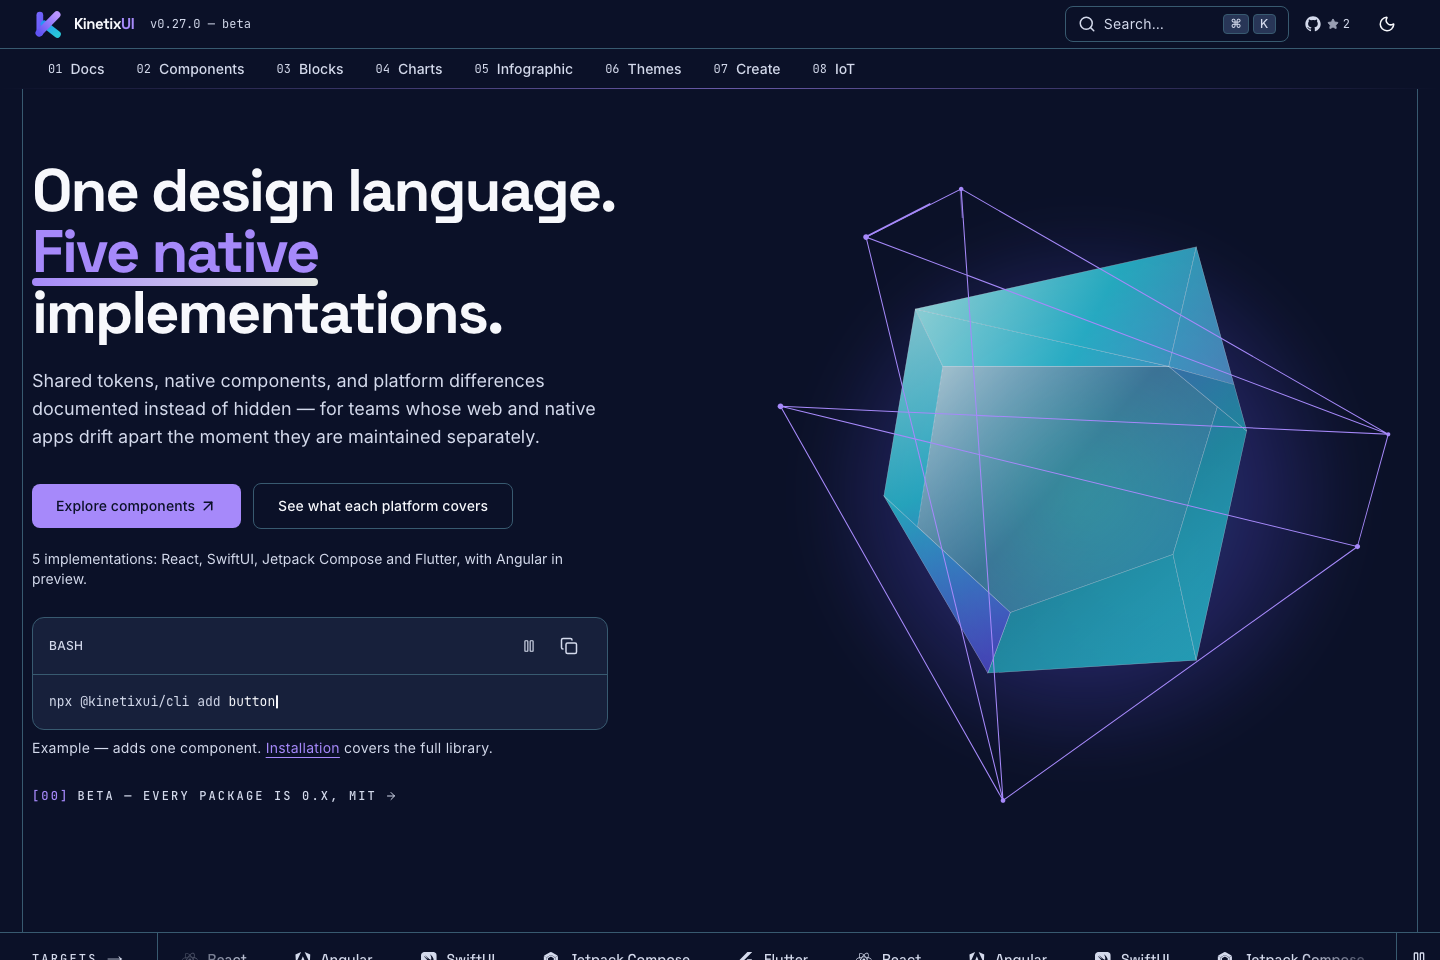
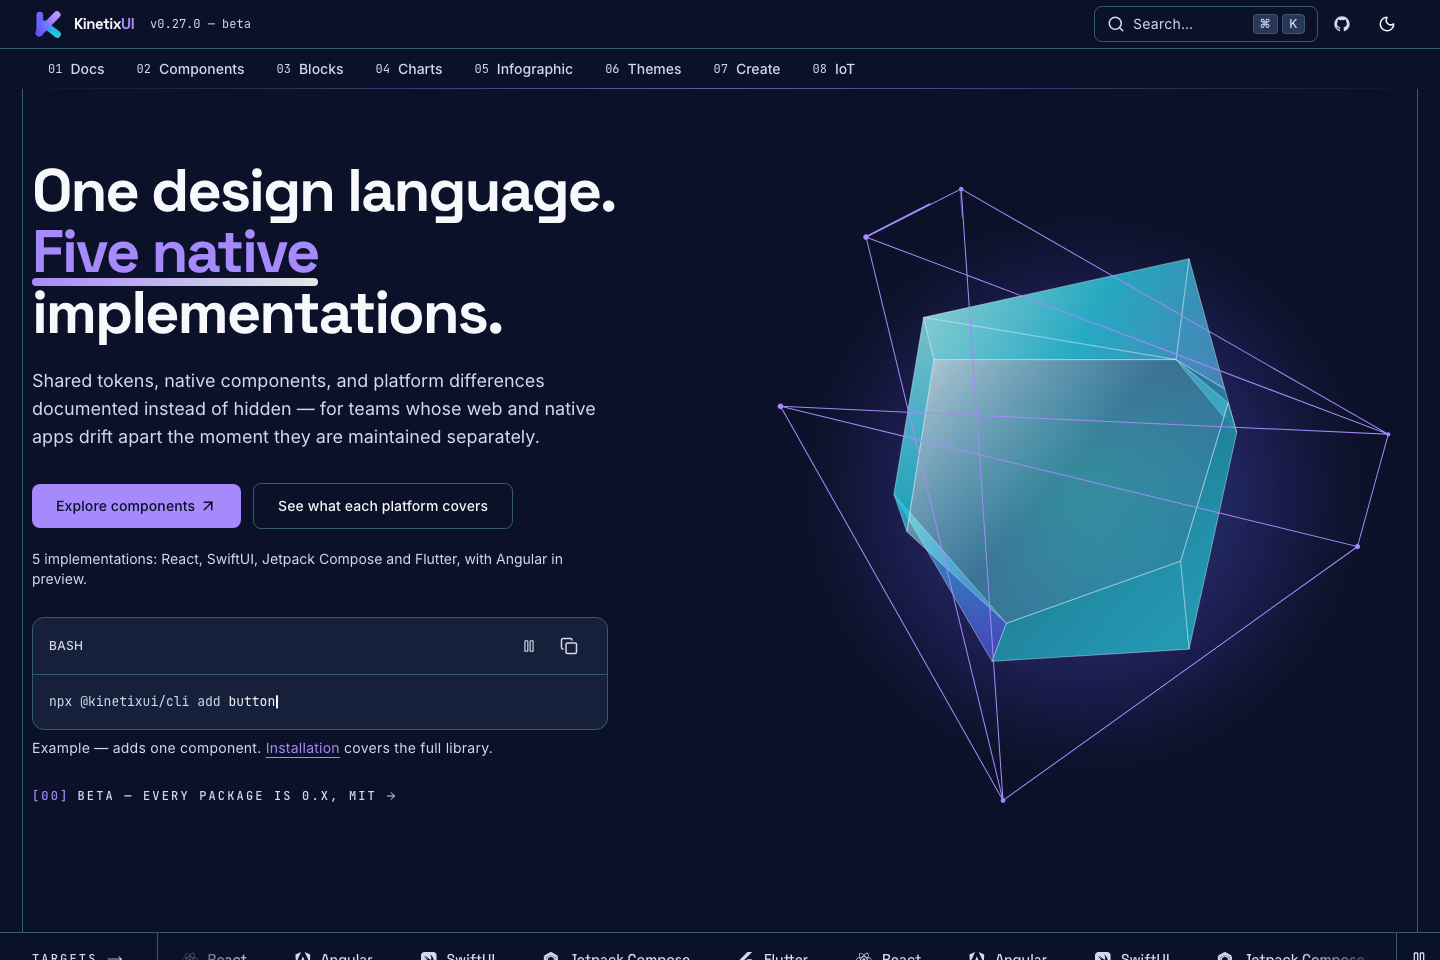
Give hero facets depth and restrict dragging to painted faces

Changed region(s): [[0.5938, 0.25, 0.875, 0.7188], [0.8438, 0.0, 0.9375, 0.0312], [0.75, 0.0, 0.8125, 0.0312]]

diff --git a/apps/web/src/components/hero-polygon.tsx b/apps/web/src/components/hero-polygon.tsx
@@ -11,6 +11,38 @@ const facetMaterials: Record<string, string> = {
   "cls-4": "edge", "cls-5": "light", "cls-6": "shadow",
 };
 
+// The central face is the front plane. The surrounding faces taper back
+// to a second ring, with shared vertices so their edges stay joined.
+const faces = geometry.facets.filter(face => face.type === "polygon");
+const vertices = (data: string) => {
+  const values = data.split(/\s+/).map(Number);
+  return values.flatMap((x, i) => i % 2 ? [] : [[x, values[i + 1]]]);
+};
+const front = new Set(vertices(faces[0].data).map(([x, y]) => Math.round(x) + "," + Math.round(y)));
+const mesh = faces.map(face => ({
+  tone: face.tone,
+  points: vertices(face.data).map(([x, y]) => ({
+    x: x - 300, y: y - 285,
+    z: front.has(Math.round(x) + "," + Math.round(y)) ? 64 : -56,
+  })),
+}));
+
+function project(pitch: number, yaw: number) {
+  const p = pitch * Math.PI / 180, r = yaw * Math.PI / 180;
+  return mesh.map(face => {
+    let depth = 0;
+    const points = face.points.map(({ x, y, z }) => {
+      const rz = z * Math.cos(r) - x * Math.sin(r);
+      const dz = rz * Math.cos(p) + y * Math.sin(p);
+      depth += dz;
+      const scale = 960 / (960 - dz);
+      return [300 + (x * Math.cos(r) + z * Math.sin(r)) * scale,
+        285 + (y * Math.cos(p) - rz * Math.sin(p)) * scale].join(",");
+    });
+    return { tone: face.tone, points: points.join(" "), depth: depth / points.length };
+  }).sort((a, b) => a.depth - b.depth);
+}
+
 const clamp = (value: number) => Math.max(-28, Math.min(28, value));
 
 /** Owner-supplied 189 [Converted].svg; its coordinates and outlined cage stay intact. */
@@ -40,15 +72,17 @@ export function HeroPolygon() {
     };
   }, []);
 
-  // Pointer movement writes only two CSS variables; no React render per frame.
+  const [pose, setPose] = useState(rotation.current);
   const rotate = (pitch: number, yaw: number) => {
     rotation.current = { pitch: clamp(pitch), yaw: clamp(yaw) };
+    setPose(rotation.current);
     shape.current?.style.setProperty("--polygon-pitch", `${rotation.current.pitch}deg`);
     shape.current?.style.setProperty("--polygon-yaw", `${rotation.current.yaw}deg`);
   };
   const startDrag = (event: PointerEvent<HTMLDivElement>) => {
-    if (!event.isPrimary || event.button !== 0) return;
+    if (!event.isPrimary || event.button !== 0 || !(event.target instanceof SVGPolygonElement)) return;
     drag.current = { pointer: event.pointerId, x: event.clientX, y: event.clientY, ...rotation.current };
+    event.currentTarget.focus({ preventScroll: true });
     event.currentTarget.setPointerCapture(event.pointerId);
     event.currentTarget.dataset.dragging = "true";
   };
@@ -110,9 +144,10 @@ export function HeroPolygon() {
               </defs>
               <g>
                 <g className="kx-polygon-facets">
-                  {geometry.facets.map((facet, i) => facet.type === "polygon" ?
-                    <polygon key={i} points={facet.data} fill={`url(#${id}-${facetMaterials[facet.tone] ?? "glass"})`} /> :
-                    <path key={i} d={facet.data} className="kx-polygon-seam" />)}
+                  {project(pose.pitch, pose.yaw).map(face => (
+                    <polygon key={face.tone} points={face.points} fill={`url(#${id}-${facetMaterials[face.tone]})`}
+                      stroke="rgba(235,255,255,.55)" strokeWidth=".75" strokeLinejoin="round" />
+                  ))}
                 </g>
                 {/* The supplied upper wireframe is drawn over the facets in the main brand colour. */}
                 <g className="kx-polygon-wireframe">

diff --git a/apps/web/src/app/brand-hero.css b/apps/web/src/app/brand-hero.css
@@ -4,10 +4,11 @@
 .kx-brand-hero-copy { padding-bottom: 1rem; }
 .kx-hero-polygon { position: relative; min-width: 0; align-self: center; --polygon-pitch: 0deg; --polygon-yaw: 0deg; }
 .kx-polygon-aura { position: absolute; width: 82%; aspect-ratio: 1; left: 9%; top: 9%; border-radius: 50%; background: radial-gradient(circle closest-side, #9ae9ee 0%, #b6edf3 64%, #d6dff5b3 83%, #d6dff500 100%); filter: blur(18px); pointer-events: none; }
-.kx-polygon-interaction { position: relative; perspective: 1000px; cursor: grab; touch-action: pan-y; border-radius: 1rem; outline-offset: 3px; user-select: none; -webkit-user-select: none; }
+.kx-polygon-interaction { position: relative; perspective: 1000px; pointer-events: none; border-radius: 1rem; outline-offset: 3px; user-select: none; -webkit-user-select: none; }
 .kx-polygon-interaction:focus-visible { outline: 2px solid hsl(var(--focus)); }
 .kx-polygon-interaction[data-dragging="true"] { cursor: grabbing; }
-.kx-polygon-rotation { transform-style: preserve-3d; transform: rotateX(var(--polygon-pitch)) rotateY(var(--polygon-yaw)); }
+.kx-polygon-facets polygon { pointer-events: visiblePainted; cursor: grab; touch-action: pan-y; }
+.kx-polygon-interaction[data-dragging="true"] polygon { cursor: grabbing; }
 .kx-hero-polygon-art { display: block; width: 100%; height: auto; overflow: visible; }
 .kx-polygon-seam { fill: #f6f7fc; opacity: .38; }
 .kx-polygon-wireframe { fill: hsl(var(--brand)); }
